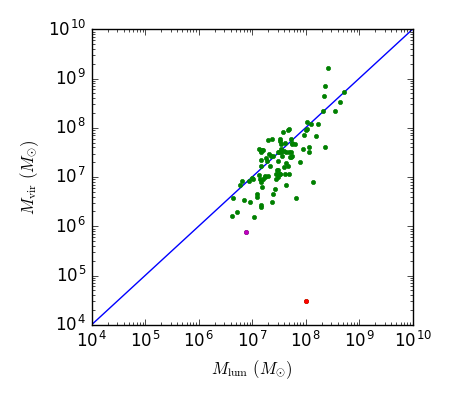
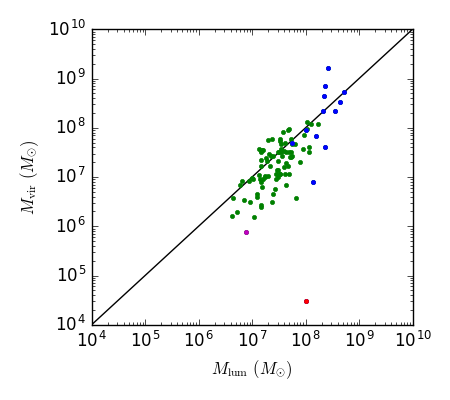
Graphs

diff --git a/gmc_property_plots.py b/gmc_property_plots.py
@@ -31,15 +31,27 @@ mygalaxy = Galaxy("M100")
 cpropstable = Table.read('m100.co10_props_cprops.fits')
 rgal=mygalaxy.radius(ra = cpropstable['XPOS'], dec = cpropstable['YPOS'])
 
-
+#Make array of indexes for low R_gal group
+A = []
+n = 0
+test = rgal.value
+for item in test:
+	if item < 1200:
+		A = A + [n]
+	n = n +1
+	
+	
 ##PLOTS##
 
 #Virial mass vs.luminous mass plot
 figure = plt.figure(figsize=(4.5,4)) #figure size in inches
 line1, line2 = plt.loglog(one,one, mytable['MASS_EXTRAP'],mytable['VIRMASS_EXTRAP_DECONV'])
 line1.set_linestyle('-')
+line1.set_color('k')
 line2.set_linestyle('None')
 line2.set_marker('.')
+for item in A:
+	plt.loglog(mytable['MASS_EXTRAP'][item],mytable['VIRMASS_EXTRAP_DECONV'][item],marker='.',c='b')
 plt.loglog(mytable['MASS_EXTRAP'][92],mytable['VIRMASS_EXTRAP_DECONV'][92],marker='.',c='r')
 plt.loglog(mytable['MASS_EXTRAP'][132],mytable['VIRMASS_EXTRAP_DECONV'][132],marker='.',c='m')
 plt.xlabel(r'$M_{\mathrm{lum}}\ (M_{\odot})$') 
@@ -51,10 +63,13 @@ plt.savefig('MlumMvir_matplotlib.png')
 figure = plt.figure(figsize=(4.5,4)) #figure size in inches
 line1, line2 = plt.loglog(R,sigmav, mytable['RADRMS_EXTRAP_DECONV'],mytable['VRMS_EXTRAP_DECONV'])
 line1.set_linestyle('-')
+line1.set_color('k')
 line2.set_linestyle('None')
 line2.set_marker('.')
 plt.ylabel(r'$\sigma\ (km\ s^{-1})$') 
 plt.xlabel(r'$R\ (pc)$')
+for item in A:
+	plt.loglog(mytable['RADRMS_EXTRAP_DECONV'][item],mytable['VRMS_EXTRAP_DECONV'][item],marker='.',c='b')
 plt.loglog(mytable['RADRMS_EXTRAP_DECONV'][92],mytable['VRMS_EXTRAP_DECONV'][92],marker='.',c='r')
 plt.loglog(mytable['RADRMS_EXTRAP_DECONV'][132],mytable['VRMS_EXTRAP_DECONV'][132],marker='.',c='m')
 plt.tight_layout() 	
@@ -64,10 +79,13 @@ plt.savefig('LwRad_matplotlib.png')
 figure = plt.figure(figsize=(4.5,4)) #figure size in inches
 line1, line2 = plt.loglog(R,M_lum,mytable['RADRMS_EXTRAP_DECONV'],mytable['MASS_EXTRAP'])
 line1.set_linestyle('-')
+line1.set_color('k')
 line2.set_linestyle('None')
 line2.set_marker('.')
 plt.xlabel(r'$R\ (pc)$') 
 plt.ylabel(r'$M_{\mathrm{lum}}\ (M_{\odot})$')
+for item in A:
+	plt.loglog(mytable['RADRMS_EXTRAP_DECONV'][item],mytable['MASS_EXTRAP'][item],marker='.',c='b')
 plt.loglog(mytable['RADRMS_EXTRAP_DECONV'][92],mytable['MASS_EXTRAP'][92],marker='.',c='r')
 plt.loglog(mytable['RADRMS_EXTRAP_DECONV'][132],mytable['MASS_EXTRAP'][132],marker='.',c='m')
 plt.tight_layout() 	
@@ -78,6 +96,8 @@ figure = plt.figure(figsize=(4.5,4))
 plt.loglog(M_den,sigma0,marker='.',linestyle='None',c='g')
 plt.xlabel('$M/\pi R^2\ ((M_{\odot})/pc^2)$')
 plt.ylabel('$\sigma_0$')
+for item in A:
+	plt.loglog(M_den[item],sigma0[item],marker='.',c='b')
 plt.loglog(M_den[92],sigma0[92],marker='.',c='r')
 plt.loglog(M_den[132],sigma0[132],marker='.',c='m')
 plt.tight_layout() 	
@@ -88,9 +108,15 @@ figure = plt.figure(figsize=(4.5,4))
 plt.loglog(rgal.to(u.pc),sigma0,marker='.',linestyle='None',c='g')
 plt.xlabel('$R_{gal} (pc)$')
 plt.ylabel('$\sigma_0$')
+for item in A:
+	plt.loglog(rgal.to(u.pc)[item],sigma0[item],marker='.',c='b')
 plt.loglog(rgal.to(u.pc)[92],sigma0[92],marker='.',c='r')
 plt.loglog(rgal.to(u.pc)[132],sigma0[132],marker='.',c='m')
 plt.tight_layout() 	
 plt.savefig('sigma0_Rgal_matplotlib.png')
 
 
+
+
+
+	
